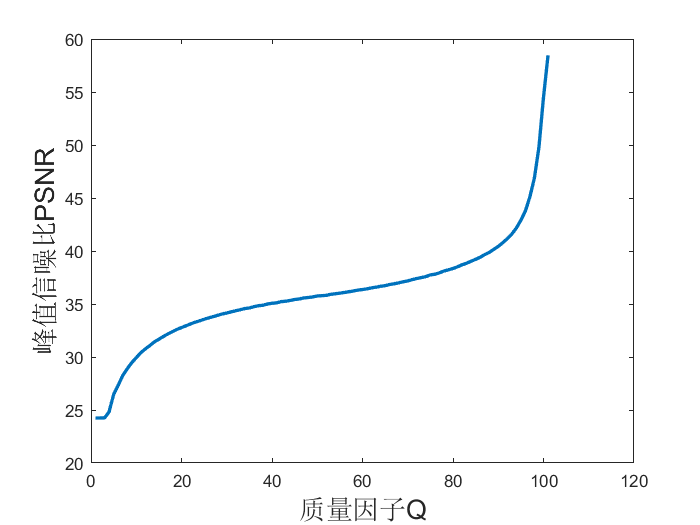
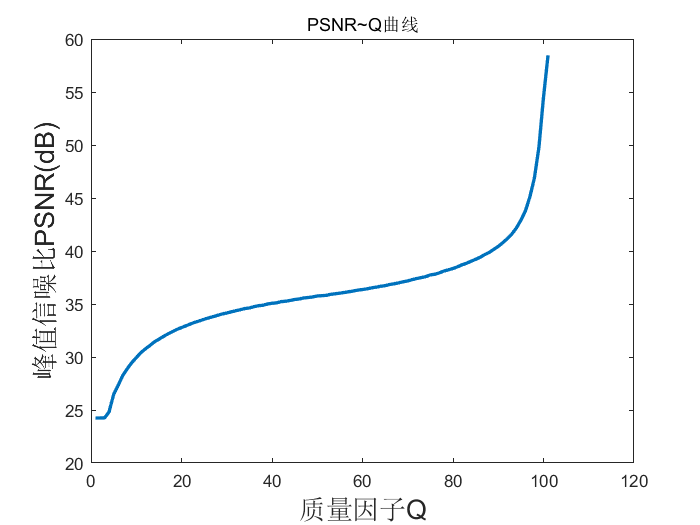
secondtry

Changed region(s): [[0.03, 0.2133, 0.09, 0.7314], [0.42, 0.0305, 0.6, 0.061]]

diff --git a/Experiment-1/Report-1.md b/Experiment-1/Report-1.md
@@ -3,7 +3,7 @@
 ###### <center> 学号：201711123020 班级：信息安全2017级
 
 # 1 测试环境
-(1) 实验图像：512x512的灰度图像和512x512的彩色图像。即lena512.bmp和lena512.tif。
+(1) 实验图像：512x512的灰度图像(即lena512.bmp)和512x512的彩色图像(即lena512.tif)。
 
 (2) 使用的工具：MATLAB R2018a。
   
@@ -13,15 +13,19 @@
 (2)图像JPEG压缩实验。
 
 # 3 实验内容
+
 ## 3.1 模拟数字图像JPEG压缩，绘制PSNR~Q曲线
 
 ### 3.1.1 读入图片
+
 (1) 用imread读入灰度图片。
+
 ```matlab
 % imread返回值类型为uint8，读入一张灰度图片
 im=imread('lena512.bmp');
 ```
-(2) 读入彩色图片，需要转换颜色空间，y是最终的亮度通道。
+(2) 读入彩色图片，需要转换颜色空间，通过matlab内置函数rgb2ntsc，即将读入的图像由RGB空间转化为NTSC空间。NTSC的亮度通道图像是YIQ图像的第一个颜色通道。
+
 ```matlab
 % imread返回值类型为uint8
 im=imread('lena512.bmp');
@@ -33,9 +37,10 @@ y=y(:,:,1);
 ```
 
 ### 3.1.2 遍历质量因子，得到压缩后的图片
-(1) 质量因子$q$的范围是$0~100$，由$F_q(u,v)=F(u,v)/q$，我们可从理论上分析质量因子越大，压缩的比重越小，损失越小。
 
-(2) 遍历质量因子的范围，得到101张lena图像。
+(1) 质量因子$q$的范围是$0~100$，由$F_q(u,v)={F(u,v)\over q}$，我们可从理论上分析质量因子越大，压缩的比重越小，损失越小。
+
+(2) 遍历质量因子的范围0~100，得到101张lena图像。
 ```matlab
 path='images/';
 im=imread('lena512.bmp');
@@ -48,7 +53,7 @@ for i=0:100
     imwrite(im,savename,'jpg','Quality',i);
 end
 ```
-从实验上验证我们的分析，可得如下对比图1。
+通过画图展示当质量因子q为特殊值1，5，10，15，30，50，70，90，JPEG图像的质量的变化情况。
 ```matlab
 q=[1, 5, 10, 15, 30, 50, 70, 90];
 num=1;
@@ -58,11 +63,13 @@ for i=q
     num=num+1;
 end
 ```
+从实验上验证我们的分析，可得如下对比图1。
 
 ![质量因子的变化](images/qualifactor-contrast.png)
-
+<center> 图1 不同质量因子的JPEG图像
 
 ### 3.1.3 绘制PSNR~Q曲线
+
 (1) PSNR(Peak Signal-to-Noise Ratio)峰值信噪比，PSNR越高，压缩后失真越小。
 
 (2) 根据公式$PSNR=10*log_{10}({MAX_I^2 \over MSE})$，$MAX_I$为最大像素值(8bit的灰度图像为255)，$MSE$是均方差，计算公式为$MSE={1\over mn}\sum_{i=0}^{m-1}\sum_{j=0}^{n-1}||I(i,j)-K(i,j)||^2$，$I$为原图像，$K$为失真后图像，(m,n)为图像尺寸。
@@ -73,7 +80,11 @@ im=imread('lena512.bmp');
 im=double(im);
 ans=zeros(1,101);
 ans=double(ans);
-MAX=255*255;
+% 位深度
+bit=8;
+% 当前图像的最大像素值
+fmax=2.^bit-1;
+MAX=fmax.^2;
 for i=0:100
     readname=[path,num2str(i)];
     readname=[readname,'.jpg'];
@@ -85,10 +96,14 @@ for i=0:100
 end 
 ```
 处理后的曲线为图2。
-![PSNR~Q1](images/PSNR~Q.png)
 
-(3) 调用psnr函数
+![PSNR~Q1](images/PSNR~Q-myfunc.png)
+<center> 图2 PSNR~Q曲线
+
+(3) 调用matlab的内置psnr函数
+
 ```matlab
+% 注意用psnr函数不能把imread后得到的矩阵转为double，否则结果不对。
 im=imread('lena512.bmp');
 ans=zeros(1,101);
 ans=double(ans);
@@ -96,18 +111,27 @@ for i=0:100
     readname=[path,num2str(i)];
     readname=[readname,'.jpg'];
     read=imread(readname);
-    read=double(read);
-    [peaksnr,snr]=psnr(read,double(im));
+    [peaksnr,snr]=psnr(read,im);
     ans(i+1)=peaksnr;
 end
 ```
-处理后的曲线为图3。
-![PSNR~Q2](images/PSNR~Q-myfunc.png)
+处理后的曲线为图3，和图2的结果一致。
 
-### 3.1.4 问题与解决
-(1) 为什么自己编写的PSNR和调用matlab的内置函数PSNR有差别？
+![PSNR~Q2](images/PSNR~Q.png)
+<center> 图3 调用psnr函数绘制PSNR~Q曲线
 
-## 3.2 
+### 3.1.4 实验结果分析
+
+(1) PSNR的指标：PSNR高于40dB说明图像质量极好（即非常接近原始图像）；在30—40dB通常表示图像质量是好的（即失真可以察觉但可以接受）；在20—30dB说明图像质量差；PSNR低于20dB图像不可接受。
+(2) 在质量因子为0~20和80~100时，图像的PSNR变化较快；质量因子为20~80时，变化较为缓慢。
+
+## 3.2 显示压缩前后的灰度直方图，观察并分析所存在的差异
+
+### 3.2.1 选择特殊的质量因子，绘制灰度直方图
+
+(1) 选择q为1，10，30，50，70，90，
+
+### 3.2.2 实验结果分析
 
 
 # 4 参考资料
